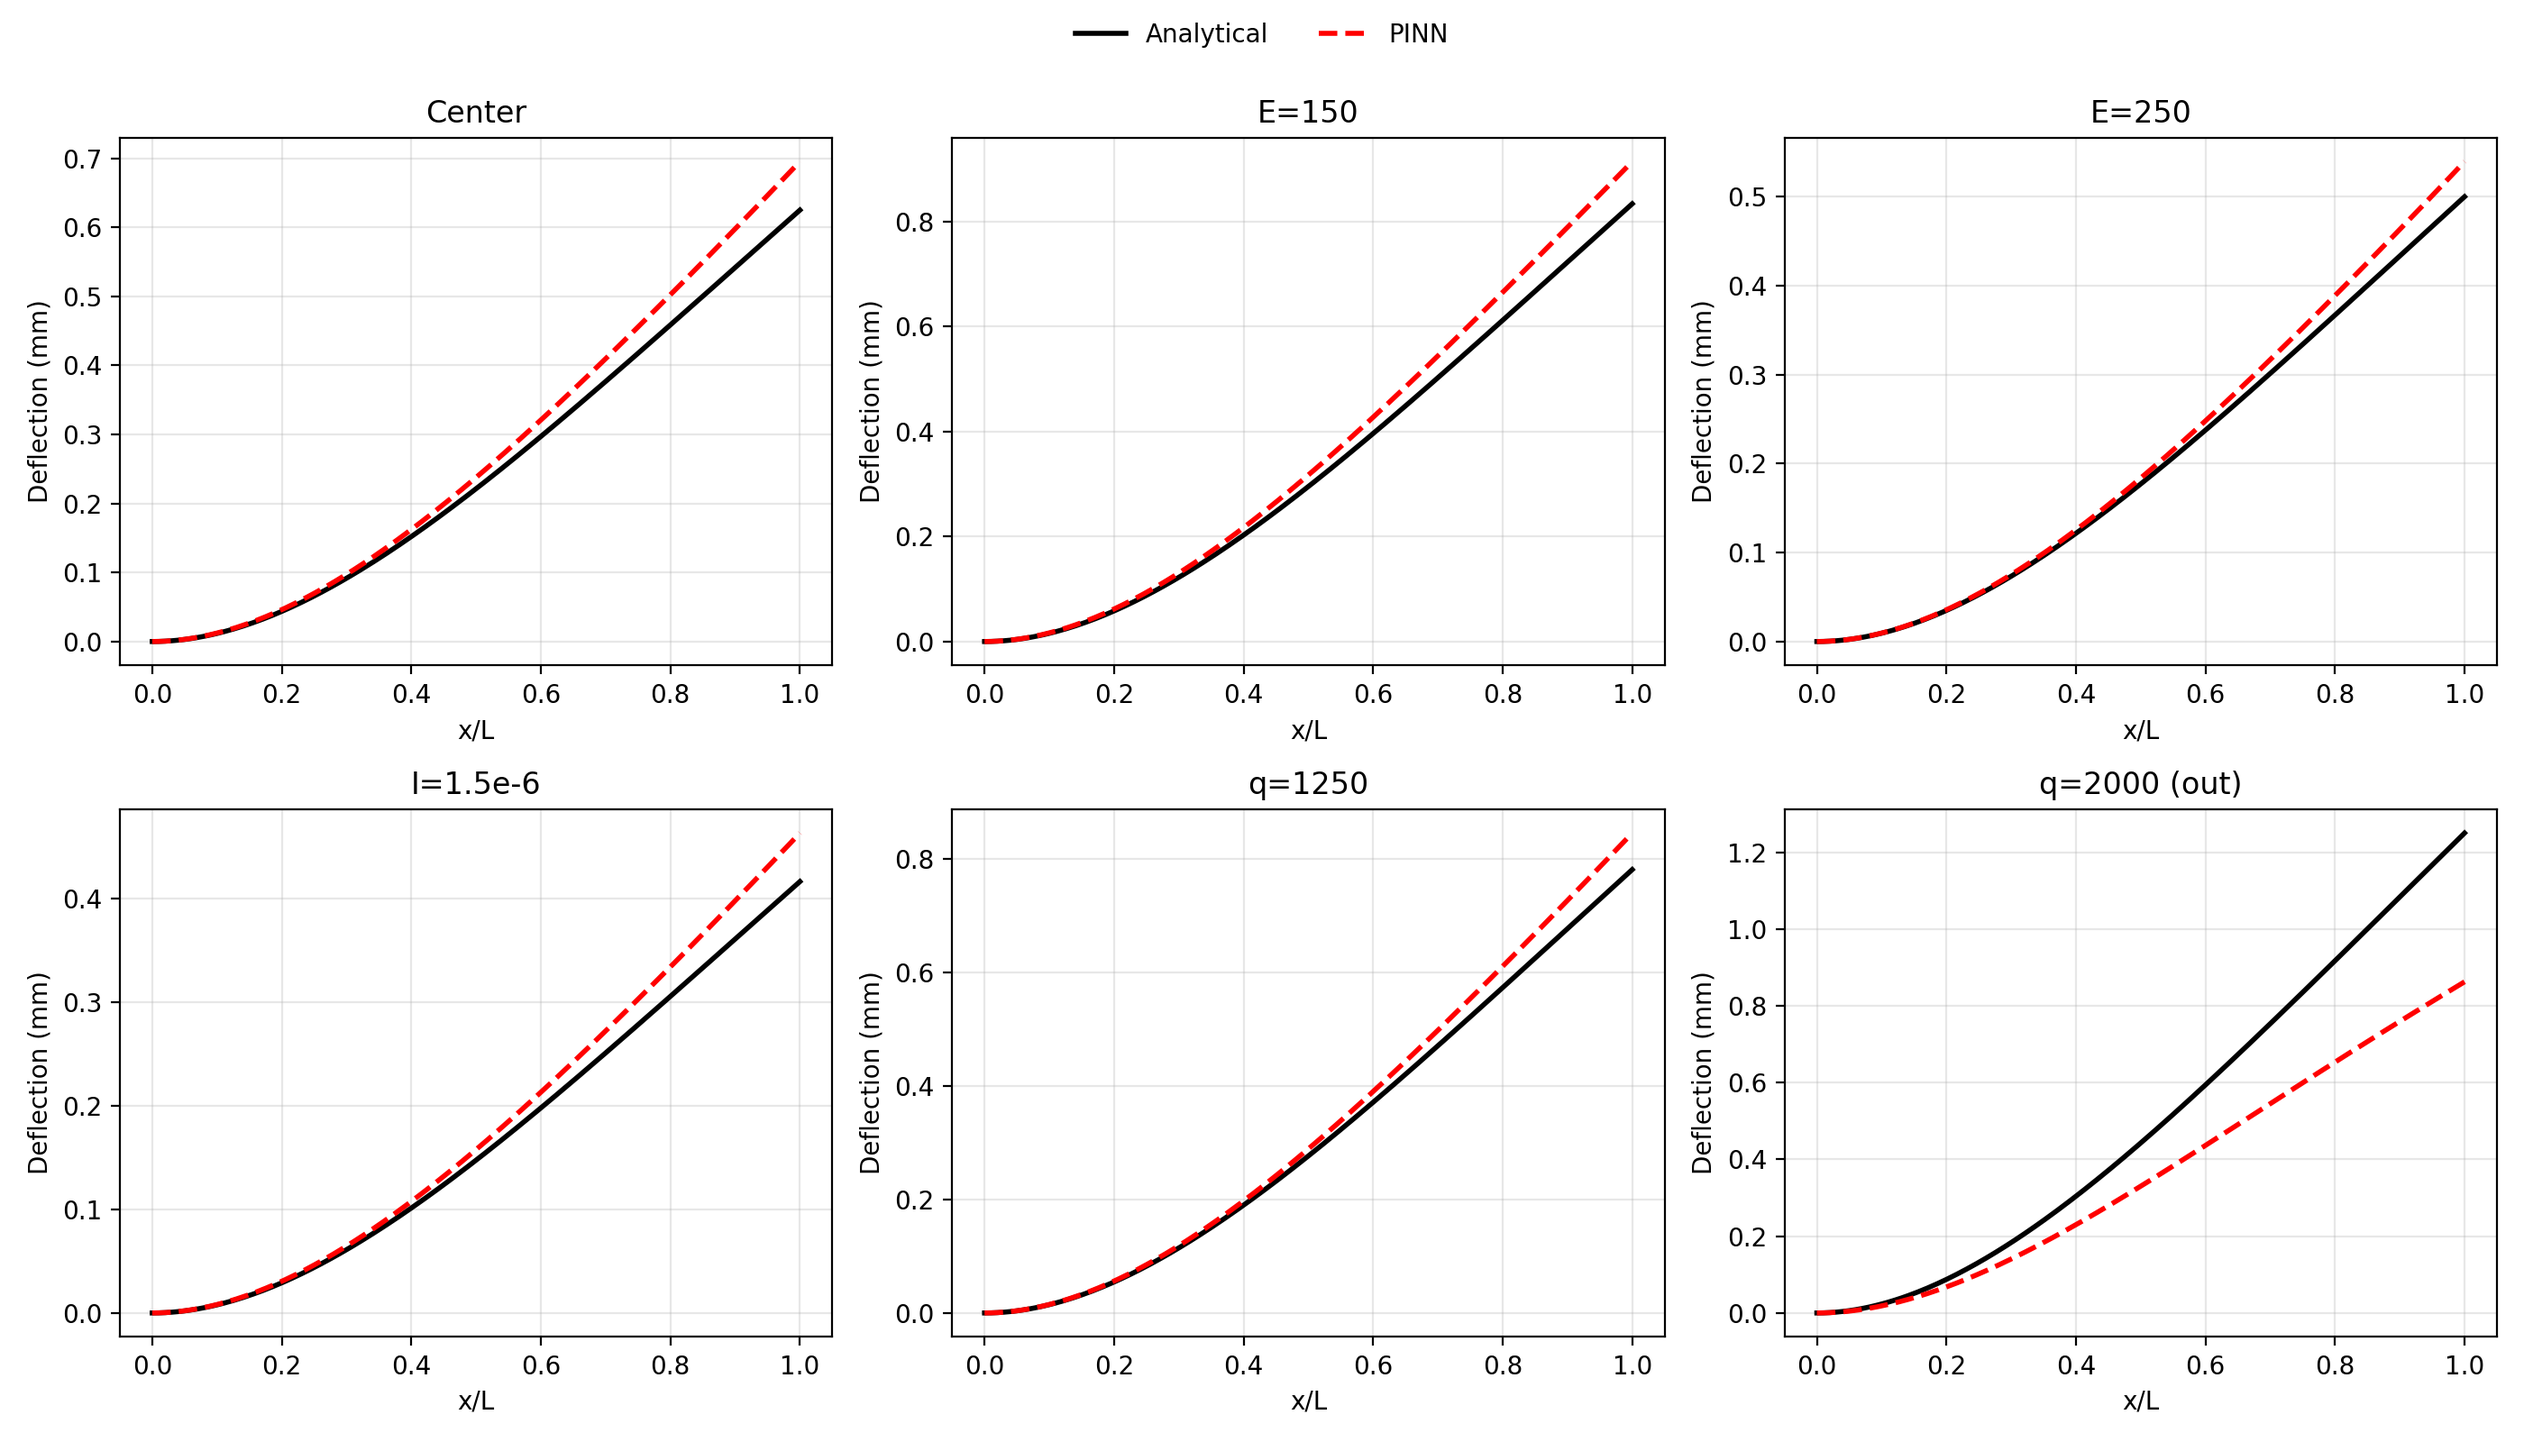
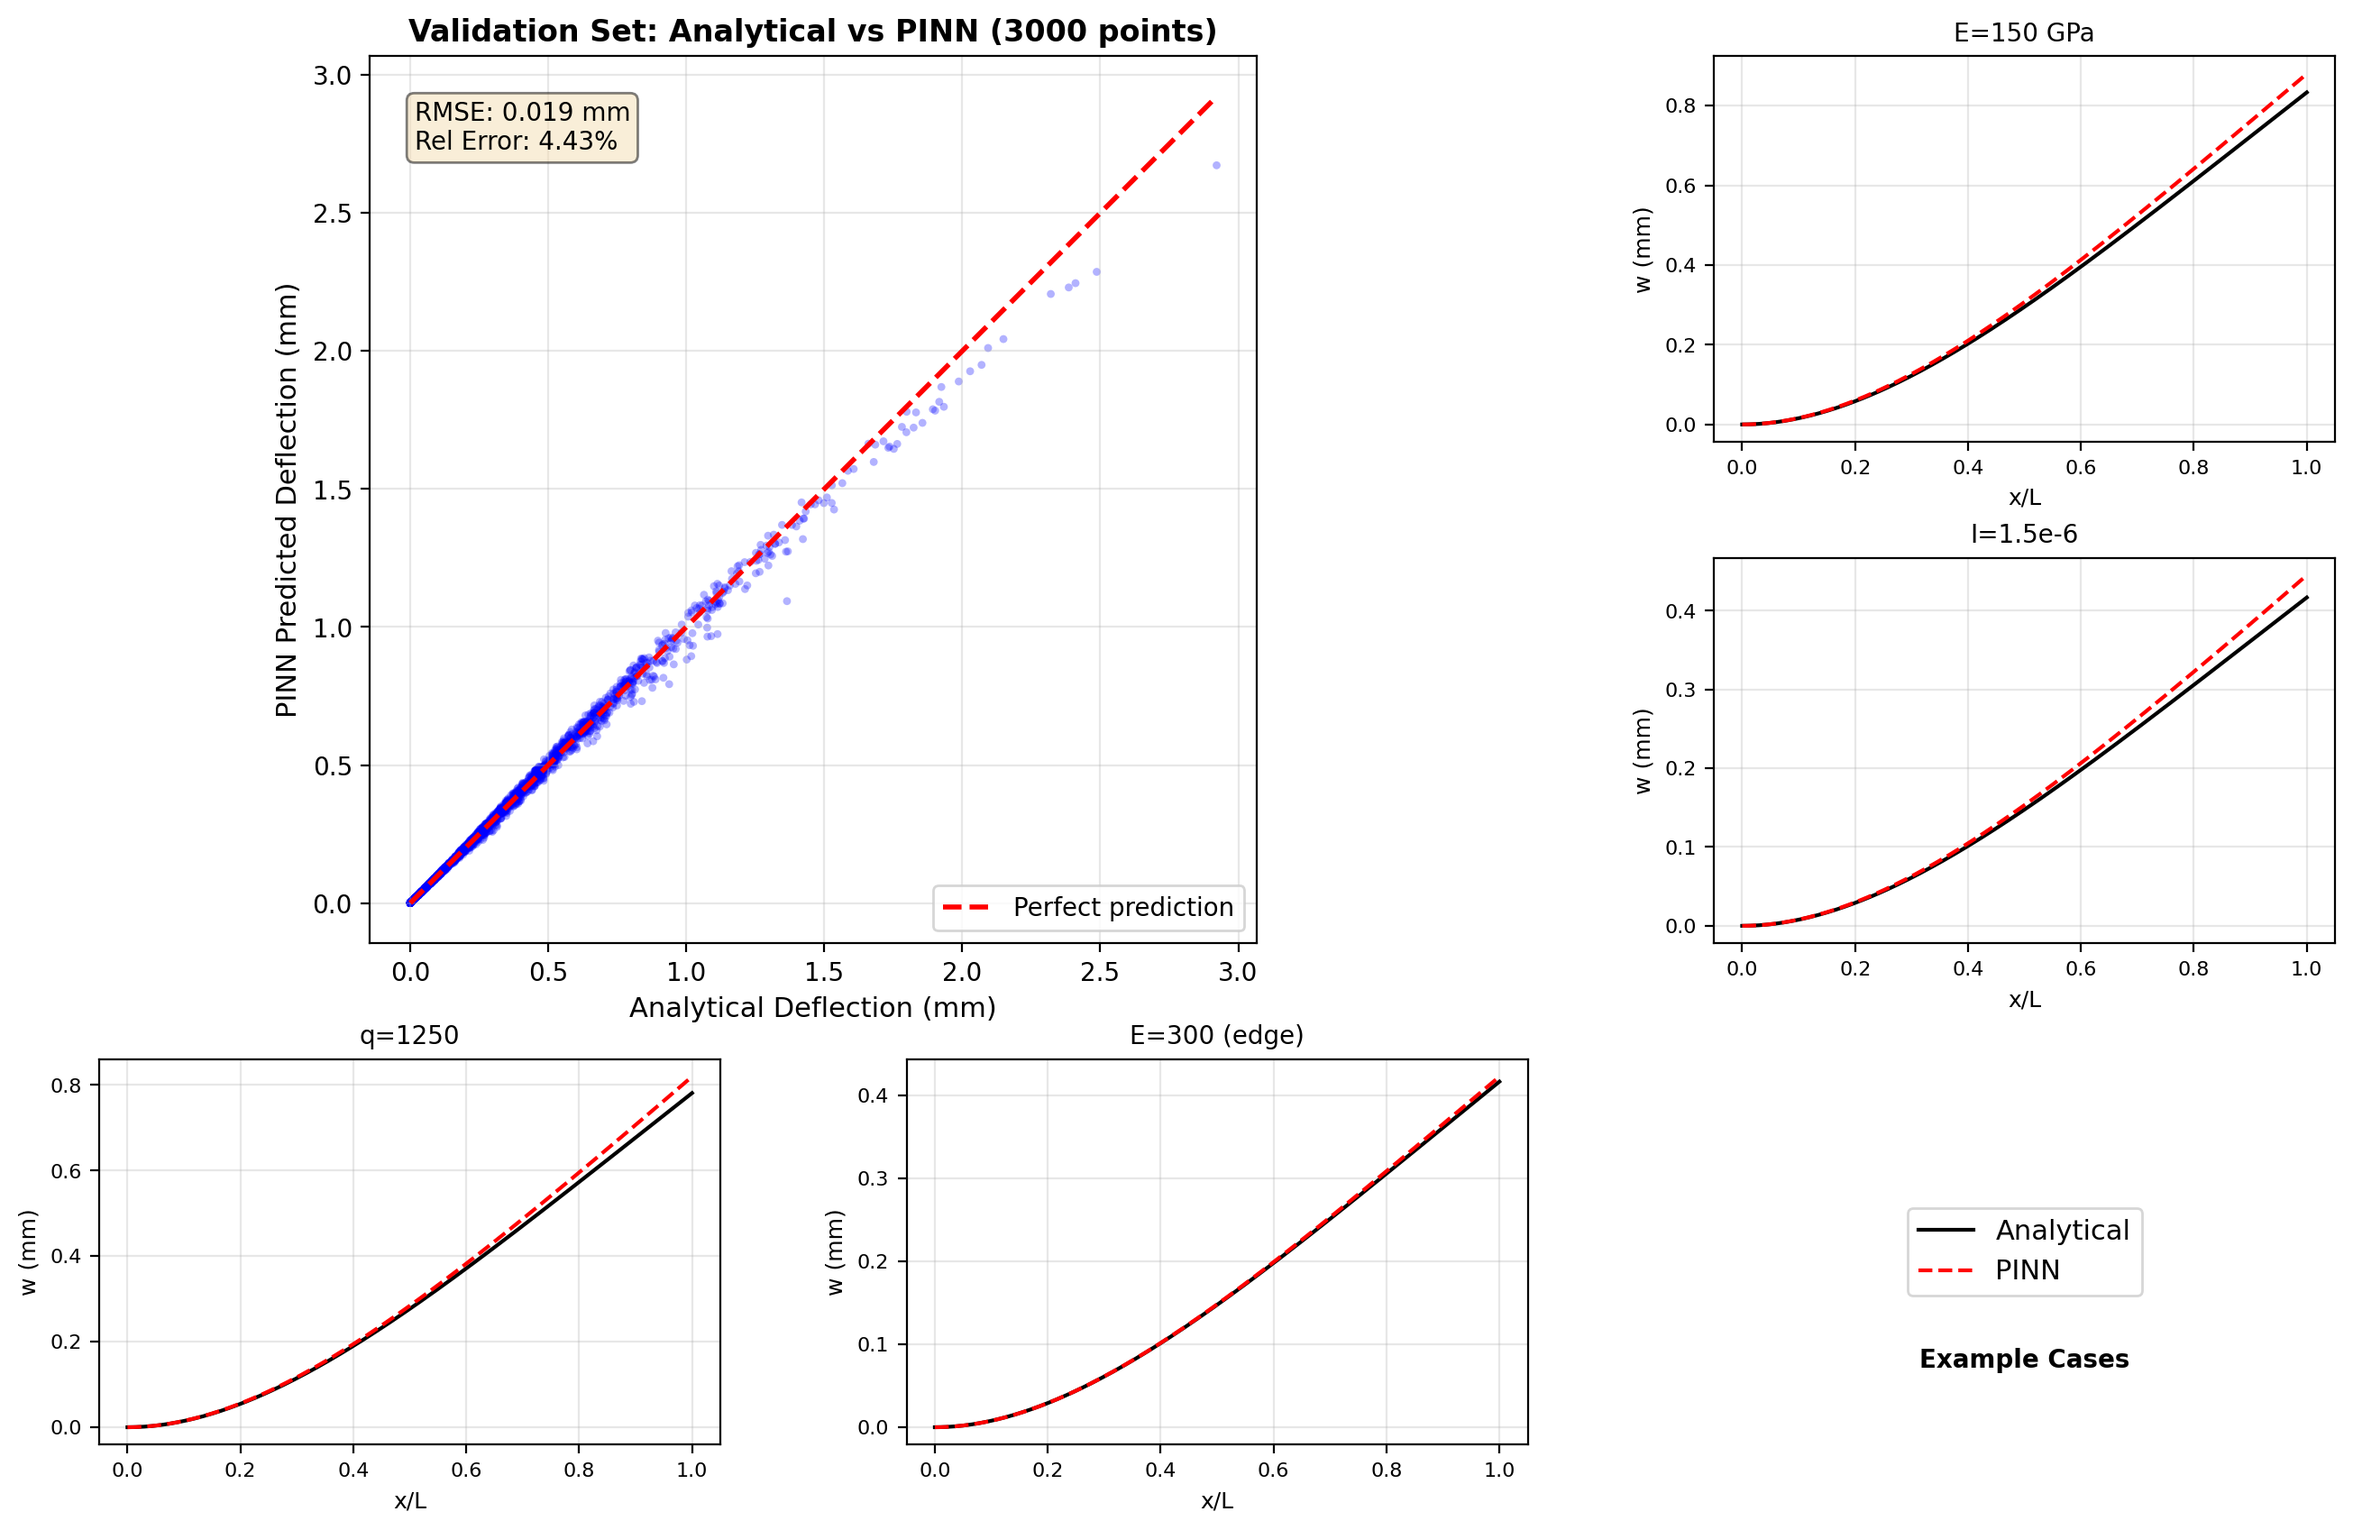
enhance validation visualization and improve reproducibility

diff --git a/visualize.py b/visualize.py
@@ -3,6 +3,42 @@ import torch
 import matplotlib.pyplot as plt
 from models import ParametricClampedBeam, analytical_solution
 
+# copy gen_data function to avoid running training code
+def gen_data(n=15000, E_range=(100e9,300e9), I_range=(0.5e-6,2e-6), q_range=(500,1500), L=1.0,
+             importance=True, hi_I=(1.3e-6,2e-6), hi_q=(1200.0,1500.0)):
+    if not importance:
+        E=np.random.uniform(*E_range, n)
+        I=np.random.uniform(*I_range, n)
+        q=np.random.uniform(*q_range, n)
+    else:
+        n_uni=n//2
+        n_hiI=n//4
+        n_hiq=n - n_uni - n_hiI
+        E=np.concatenate([
+            np.random.uniform(*E_range,n_uni),
+            np.random.uniform(*E_range,n_hiI),
+            np.random.uniform(*E_range,n_hiq),
+        ])
+        I=np.concatenate([
+            np.random.uniform(*I_range,n_uni),
+            np.random.uniform(*hi_I,n_hiI),
+            np.random.uniform(*I_range,n_hiq),
+        ])
+        q=np.concatenate([
+            np.random.uniform(*q_range,n_uni),
+            np.random.uniform(*q_range,n_hiI),
+            np.random.uniform(*hi_q,n_hiq),
+        ])
+    x=np.random.beta(0.5,0.5,n)
+    w=np.array([analytical_solution(xi,L,Ei,Ii,qi) for xi,Ei,Ii,qi in zip(x,E,I,q)])
+    return {
+        'x':torch.tensor(x.reshape(-1,1),dtype=torch.float32),
+        'E':torch.tensor(E.reshape(-1,1),dtype=torch.float32),
+        'I':torch.tensor(I.reshape(-1,1),dtype=torch.float32),
+        'q':torch.tensor(q.reshape(-1,1),dtype=torch.float32),
+        'w':torch.tensor(w.reshape(-1,1),dtype=torch.float32),
+    }
+
 def load_model(path='parametric_pinn_model.pt'):
     ckpt=torch.load(path,map_location='cpu')
     model=ParametricClampedBeam(ckpt.get('hidden_layers',[64,64,64]), L=ckpt.get('L',1.0))
@@ -30,22 +66,102 @@ def plot_case(ax, model, L, E, I, q, label):
 
 # load trained model
 model,L=load_model()
+
+# load checkpoint to get validation indices and data parameters
+ckpt = torch.load('parametric_pinn_model.pt', map_location='cpu')
+val_idx = ckpt.get('val_idx', None)
+data_seed = ckpt.get('data_seed', 42)
+n_data = ckpt.get('n_data', 15000)
+
+if val_idx is None:
+    # fallback if old model without validation indices
+    print("Warning: Model checkpoint doesn't contain validation indices. Using default split.")
+    torch.manual_seed(42)
+    np.random.seed(42)
+    data=gen_data(n_data)
+    n_total = data['x'].shape[0]
+    perm = torch.randperm(n_total)
+    n_train = int(0.8 * n_total)
+    val_idx = perm[n_train:]
+else:
+    # regenerate data with same seed to get exact validation set
+    torch.manual_seed(data_seed)
+    np.random.seed(data_seed)
+    data=gen_data(n_data)
+
+# get validation data using saved indices
+x_val = data['x'][val_idx].requires_grad_(True)
+E_val = data['E'][val_idx]
+I_val = data['I'][val_idx]
+q_val = data['q'][val_idx]
+w_true_val = data['w'][val_idx]
+
+# get PINN predictions
+out = model(x_val, E_val, I_val, q_val)
+w_pred_val = out['w'].detach()
+
+# convert to numpy and to mm
+w_true_mm = w_true_val.numpy().flatten() * 1000
+w_pred_mm = w_pred_val.numpy().flatten() * 1000
+
+# create figure with validation scatter plot + example cases
+fig = plt.figure(figsize=(16, 10))
+gs = fig.add_gridspec(3, 3, hspace=0.3, wspace=0.3)
+
+# large scatter plot for validation data
+ax_main = fig.add_subplot(gs[0:2, 0:2])
+ax_main.scatter(w_true_mm, w_pred_mm, alpha=0.3, s=10, c='blue', edgecolors='none')
+# perfect prediction line
+min_val = min(w_true_mm.min(), w_pred_mm.min())
+max_val = max(w_true_mm.max(), w_pred_mm.max())
+ax_main.plot([min_val, max_val], [min_val, max_val], 'r--', lw=2, label='Perfect prediction')
+ax_main.set_xlabel('Analytical Deflection (mm)', fontsize=11)
+ax_main.set_ylabel('PINN Predicted Deflection (mm)', fontsize=11)
+ax_main.set_title('Validation Set: Analytical vs PINN (3000 points)', fontsize=12, fontweight='bold')
+ax_main.grid(True, alpha=0.3)
+ax_main.legend()
+ax_main.set_aspect('equal', adjustable='box')
+
+# compute error metrics
+rmse = np.sqrt(((w_pred_mm - w_true_mm)**2).mean())
+rel_error = 100 * rmse / np.sqrt((w_true_mm**2).mean())
+ax_main.text(0.05, 0.95, f'RMSE: {rmse:.3f} mm\nRel Error: {rel_error:.2f}%', 
+             transform=ax_main.transAxes, verticalalignment='top',
+             bbox=dict(boxstyle='round', facecolor='wheat', alpha=0.5), fontsize=10)
+
+# example cases on the side
 cases=[
-    ('Center', 200e9, 1e-6, 1000),
-    ('E=150', 150e9, 1e-6, 1000),
-    ('E=250', 250e9, 1e-6, 1000),
+    ('E=150 GPa', 150e9, 1e-6, 1000),
     ('I=1.5e-6', 200e9, 1.5e-6, 1000),
     ('q=1250', 200e9, 1e-6, 1250),
-    ('q=2000 (out)', 200e9, 1e-6, 2000),
+    ('E=300 (edge)', 300e9, 1e-6, 1000),
 ]
 
-fig,axs=plt.subplots(2,3,figsize=(14,8))
-axs=axs.ravel()
-for ax,(name,E,I,q) in zip(axs,cases):
-    plot_case(ax,model,L,E,I,q,name)
-    
-handles, labels = axs[0].get_legend_handles_labels()
-fig.legend(handles, labels, loc='upper center', ncol=2, frameon=False)
-fig.tight_layout(rect=[0,0,1,0.95])
-plt.savefig('visualizations.png', dpi=200)
+positions = [gs[0, 2], gs[1, 2], gs[2, 0], gs[2, 1]]
+for pos, (name, E, I, q) in zip(positions, cases):
+    ax = fig.add_subplot(pos)
+    x=torch.linspace(0,1,200).reshape(-1,1).requires_grad_(True)
+    E_t=torch.full_like(x,float(E))
+    I_t=torch.full_like(x,float(I))
+    q_t=torch.full_like(x,float(q))
+    out=model(x,E_t,I_t,q_t)
+    w_p=out['w'].detach().numpy().flatten()*1000
+    x_np=x.detach().numpy().flatten()
+    w_t=analytical_solution(x_np,L,float(E),float(I),float(q))*1000
+    ax.plot(x_np,w_t,'k-',lw=1.5,label='Analytical')
+    ax.plot(x_np,w_p,'r--',lw=1.5,label='PINN')
+    ax.set_title(name, fontsize=10)
+    ax.set_xlabel('x/L', fontsize=9)
+    ax.set_ylabel('w (mm)', fontsize=9)
+    ax.grid(True,alpha=0.3)
+    ax.tick_params(labelsize=8)
+
+# add a legend in remaining subplot
+ax_legend = fig.add_subplot(gs[2, 2])
+ax_legend.axis('off')
+handles, labels = ax.get_legend_handles_labels()
+ax_legend.legend(handles, labels, loc='center', frameon=True, fontsize=11)
+ax_legend.text(0.5, 0.2, 'Example Cases', ha='center', fontsize=10, fontweight='bold')
+
+plt.savefig('visualizations.png', dpi=200, bbox_inches='tight')
 print('Saved visualizations.png')

diff --git a/train.py b/train.py
@@ -52,6 +52,9 @@ L=1.0
 model=ParametricClampedBeam([64,64,64],L=L).to(device)
 model.set_normalization_params(200e9,1e-6,1000.0)
 
+# set seed for reproducible data generation
+torch.manual_seed(42)
+np.random.seed(42)
 data=gen_data(15000)
 for k in data:
     data[k]=data[k].to(device)
@@ -137,5 +140,16 @@ print(f"Final validation RMSE: {final_rmse:.6e} m")
 print(f"Validation RMS(w_true): {final_rms_true:.6e} m")
 print(f"Validation Relative RMSE: {final_rel:.3f}%")
 
-torch.save({'model_state_dict':model.state_dict(),'E_ref':200e9,'I_ref':1e-6,'q_ref':1000.0,'L':L,'hidden_layers':[64,64,64]}, 'parametric_pinn_model.pt')
+# save model with validation indices for reproducibility
+torch.save({
+    'model_state_dict':model.state_dict(),
+    'E_ref':200e9,
+    'I_ref':1e-6,
+    'q_ref':1000.0,
+    'L':L,
+    'hidden_layers':[64,64,64],
+    'val_idx':val_idx.cpu(),
+    'data_seed':42,
+    'n_data':15000
+}, 'parametric_pinn_model.pt')
 print('Saved model to parametric_pinn_model.pt')

diff --git a/README.md b/README.md
@@ -45,7 +45,7 @@ Creates comparison plots showing analytical solutions versus PINN predictions.
 - **requirements.txt** — Python package dependencies
 
 ## Performance
-The model achieves approximately 6.5% relative RMSE on the validation set. Generalization performance is strong within the training parameter ranges, with some degradation observed for out-of-distribution cases
+The model achieves approximately 4.4% relative RMSE on the validation set. Generalization performance is strong within the training parameter ranges, with some degradation observed for out-of-distribution cases
 
 ## Implementation Details
 - **Architecture**: 3 hidden layers with 64 neurons each, using Tanh activation
